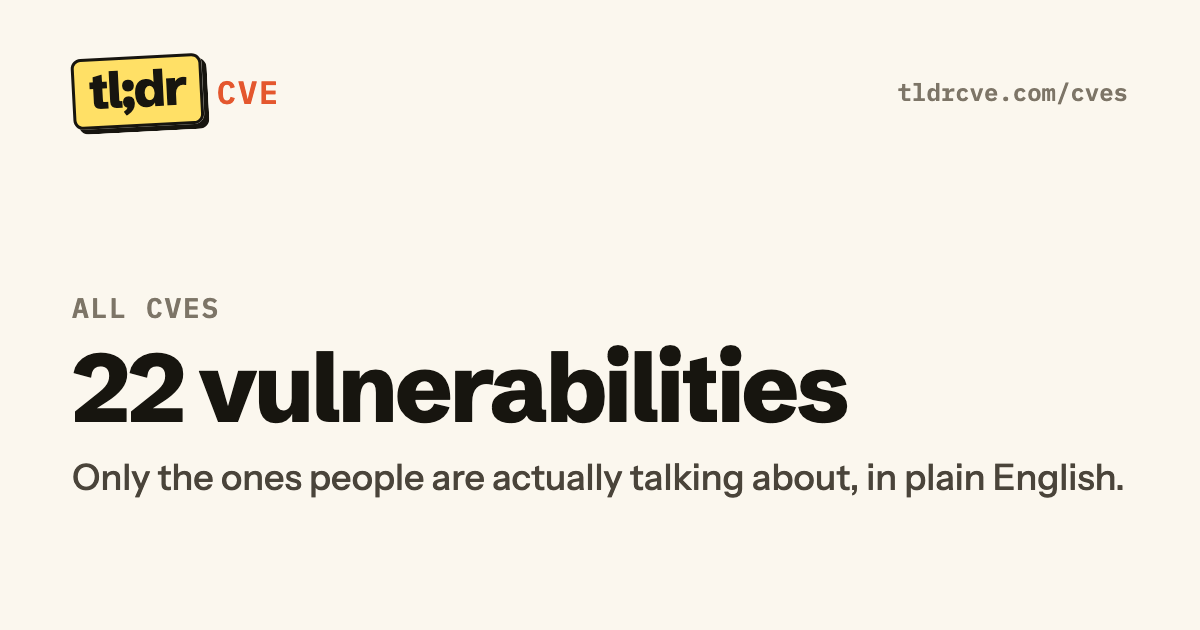
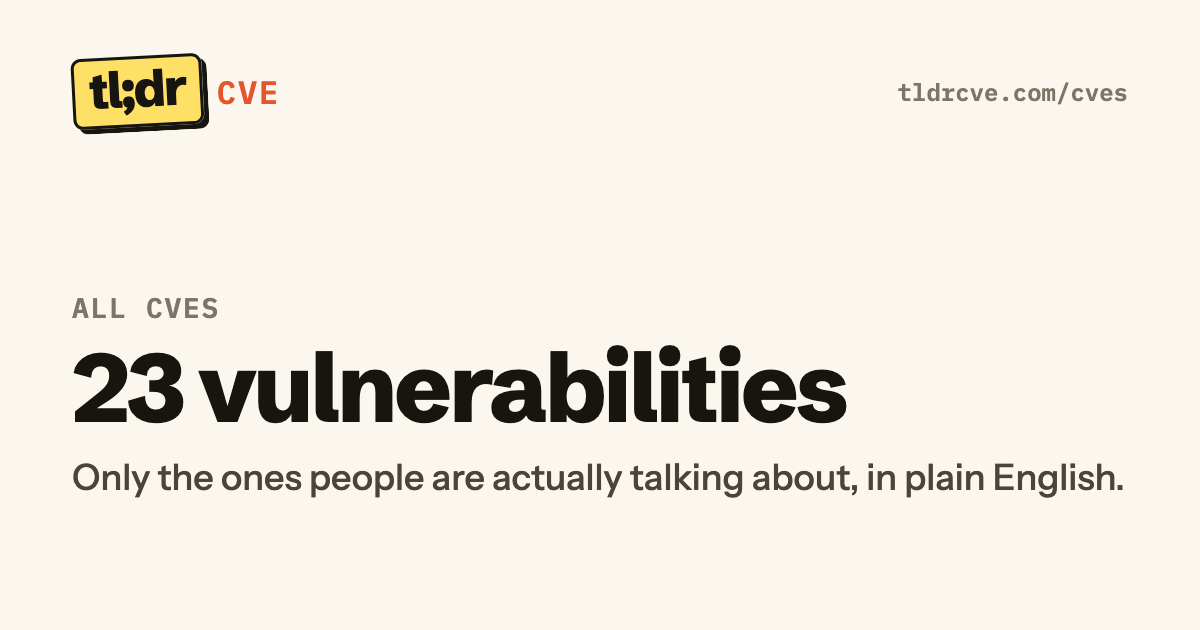
Add MySQL CVE-2026-114952 page with a Watching verdict
- content/mysql-client.json: new page. Oracle rates it 9.1 but hasn't
  explained it, no public fix, no confirmed exploit, no attacks.
- Document the existing "watch" verdict ("Watching") on How we rate and
  in AGENTS.md: too little is known to act on.
- versions/mysql.json: MySQL listed with no fix yet.
- watch/mysql-client.json: recheck findings (19 Nov GitHub code not tied
  to Oracle's fix, CWE-287 vs Red Hat's CWE-306, 26.10 line), decision
  set to page.
- Link-preview cards for the page and versions/mysql; All CVEs card
  redrawn.

diff --git a/build.py b/build.py
@@ -680,6 +680,7 @@ def how_page() -> str:
         <dt><span class="verdict verdict--now">Patch now</span></dt><dd>Working exploit or attacks seen, and common setups are exposed.</dd>
         <dt><span class="verdict verdict--if">Patch now if…</span></dt><dd>Serious, but only under conditions we list. Each page shows you how to check them.</dd>
         <dt><span class="verdict verdict--cycle">Next cycle</span></dt><dd>Real, but hard to reach or low impact. Patch on your normal schedule.</dd>
+        <dt><span class="verdict verdict--watch">Watching</span></dt><dd>People are talking about it, but too little is known to act on. We say what would change that, and update the page when it does.</dd>
       </dl>
     </section>
 

diff --git a/AGENTS.md b/AGENTS.md
@@ -72,7 +72,7 @@ Copy the shape of an existing file (`content/nginx2root.json` is a good model).
 | `disclosed` | `YYYY-MM-DD`, when the bug was made public (drives the All CVEs date filter) |
 | `news` | Optional: when it became news, if later than `disclosed` (drives "Latest" on the homepage) |
 | `updated` | `YYYY-MM-DD` of the last edit |
-| `verdict` | `now`, `if` or `cycle` (see below) |
+| `verdict` | `now`, `if`, `cycle` or `watch` (see below) |
 | `tile_line` | One line explaining the verdict, about 55 chars max |
 | `summary` | 2-3 plain-English sentences |
 | `status.exploit` | `public` (working code anyone can download), `demonstrated` (shown, code not public) or `none` |
@@ -110,6 +110,7 @@ When a vulnerability gets attention but doesn't qualify yet, record it instead o
   - `now`: working exploit or attacks seen, and common setups are exposed.
   - `if`: serious, but only under conditions the page lists.
   - `cycle`: real, but hard to reach or low impact.
+  - `watch`: getting attention, but too little is known to act on (no details, no fix, no exploit). Never a softer `now`. The page must say what would change the verdict.
 - **Writing:**
   - Plain English and short. No hype words unless quoting an official rating.
   - Absolute dates only ("19 Nov 2026").
